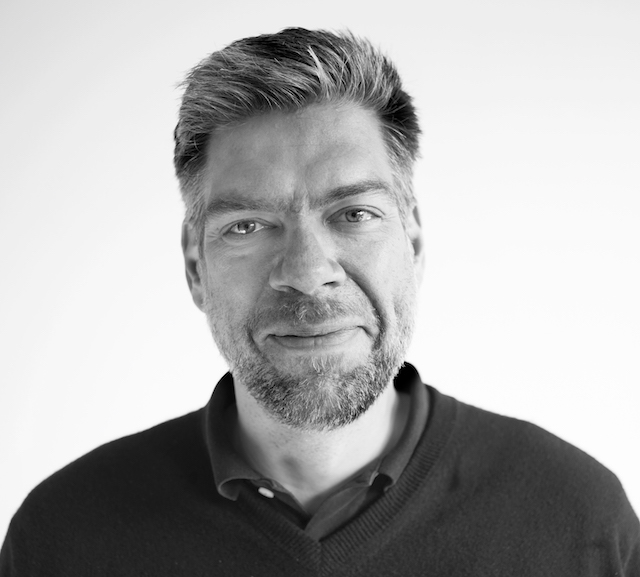
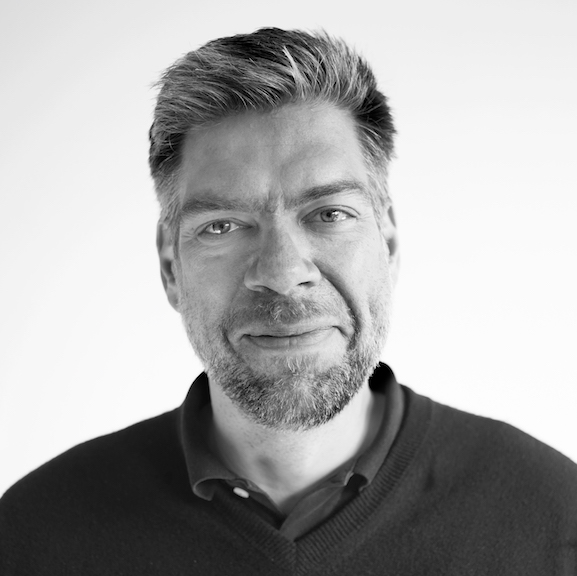
Stefans pic replaced at main page too.

diff --git a/2016/index.html b/2016/index.html
@@ -299,7 +299,7 @@
 				<div class="speaker">
 					<div class="speaker-info">
 						<div class="speaker-photo">
-							<img src="images/speakers/st.png" alt="Stefan Tilkov" />
+							<img src="images/speakers/stefan_tilkov_small.jpeg" alt="Stefan Tilkov" />
 						</div>
 						<div class="speaker-contacts">
 								<a href="http://twitter.com/stilkov" class="contact pull-right fa fa-twitter"></a>
